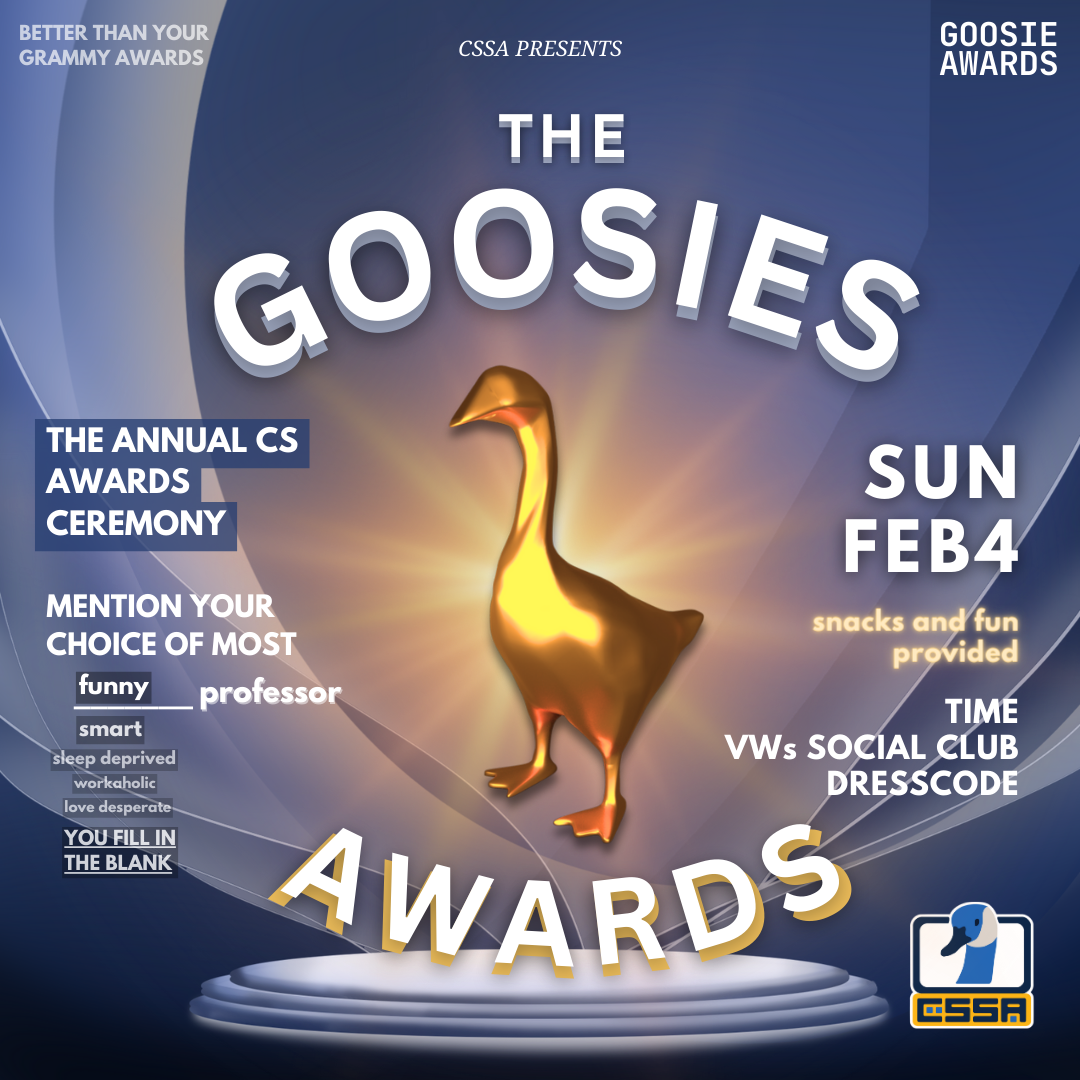
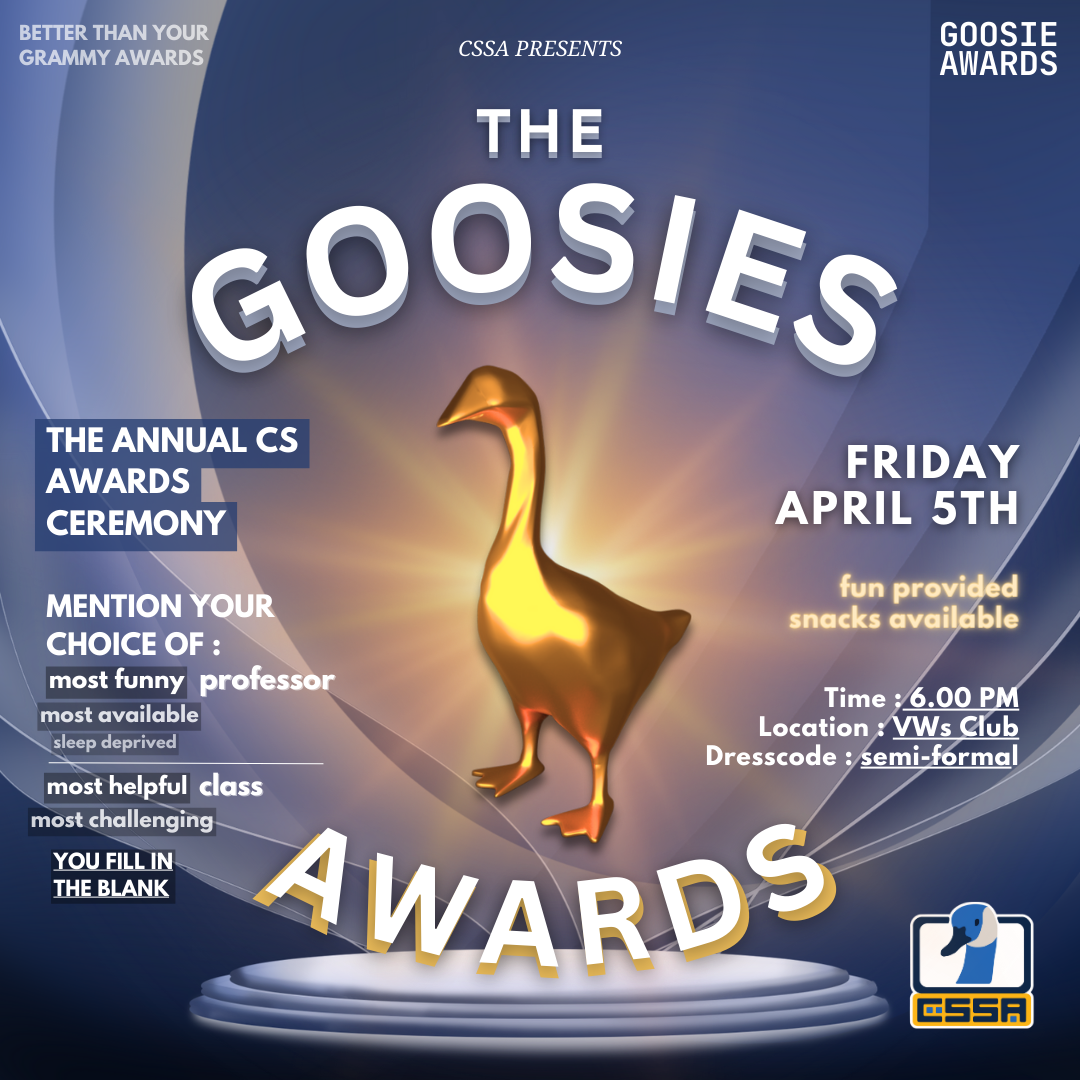
Update image, and temp wait on links

diff --git a/src/pages/Goosies/Goosies.tsx b/src/pages/Goosies/Goosies.tsx
@@ -22,8 +22,8 @@ export const Goosies = () => {
         
 
     return (
-        <PageLayout title="GOOS!ES!!!!!!!!!?!?!?!?!?!?" image="/img/backgrounds/home.jpg">
-            <EventTeaser title="Goosies" image="/img/events/goosies.png">
+        <PageLayout title="The Goosies!" image="/img/backgrounds/home.jpg">
+            <EventTeaser title="The Goosies" image="/img/events/goosies.png">
             <Text>
             Ready for the "BEST" AWARD show, for the Computer Science community by the Computer Science 
             community? Come join us for this end-of-term event for lots of giggles and fun!
@@ -50,11 +50,12 @@ export const Goosies = () => {
                 <Box fontSize={'me'}>Semi-Formal Dress</Box>
             </HStack>
             <br></br>
+            <Text>Tickets and voting are not available currently, check back later!</Text>
             <HStack>
-                <Button colorScheme="facebook" size='lg'><Link href='https://umanitobacssa.ca'>Register Here</Link></Button>
+                <Button colorScheme="gray" size='lg'><Link href='#'>Register Here</Link></Button>
                 //make bigger
                 <br></br>
-                <Button colorScheme="facebook" size='lg'><Link href='https://umanitobacssa.ca'>Vote Here</Link></Button>
+                <Button colorScheme="gray" size='lg'><Link href='#'>Vote Here</Link></Button>
             </HStack>
             </EventTeaser> 
         </PageLayout>
